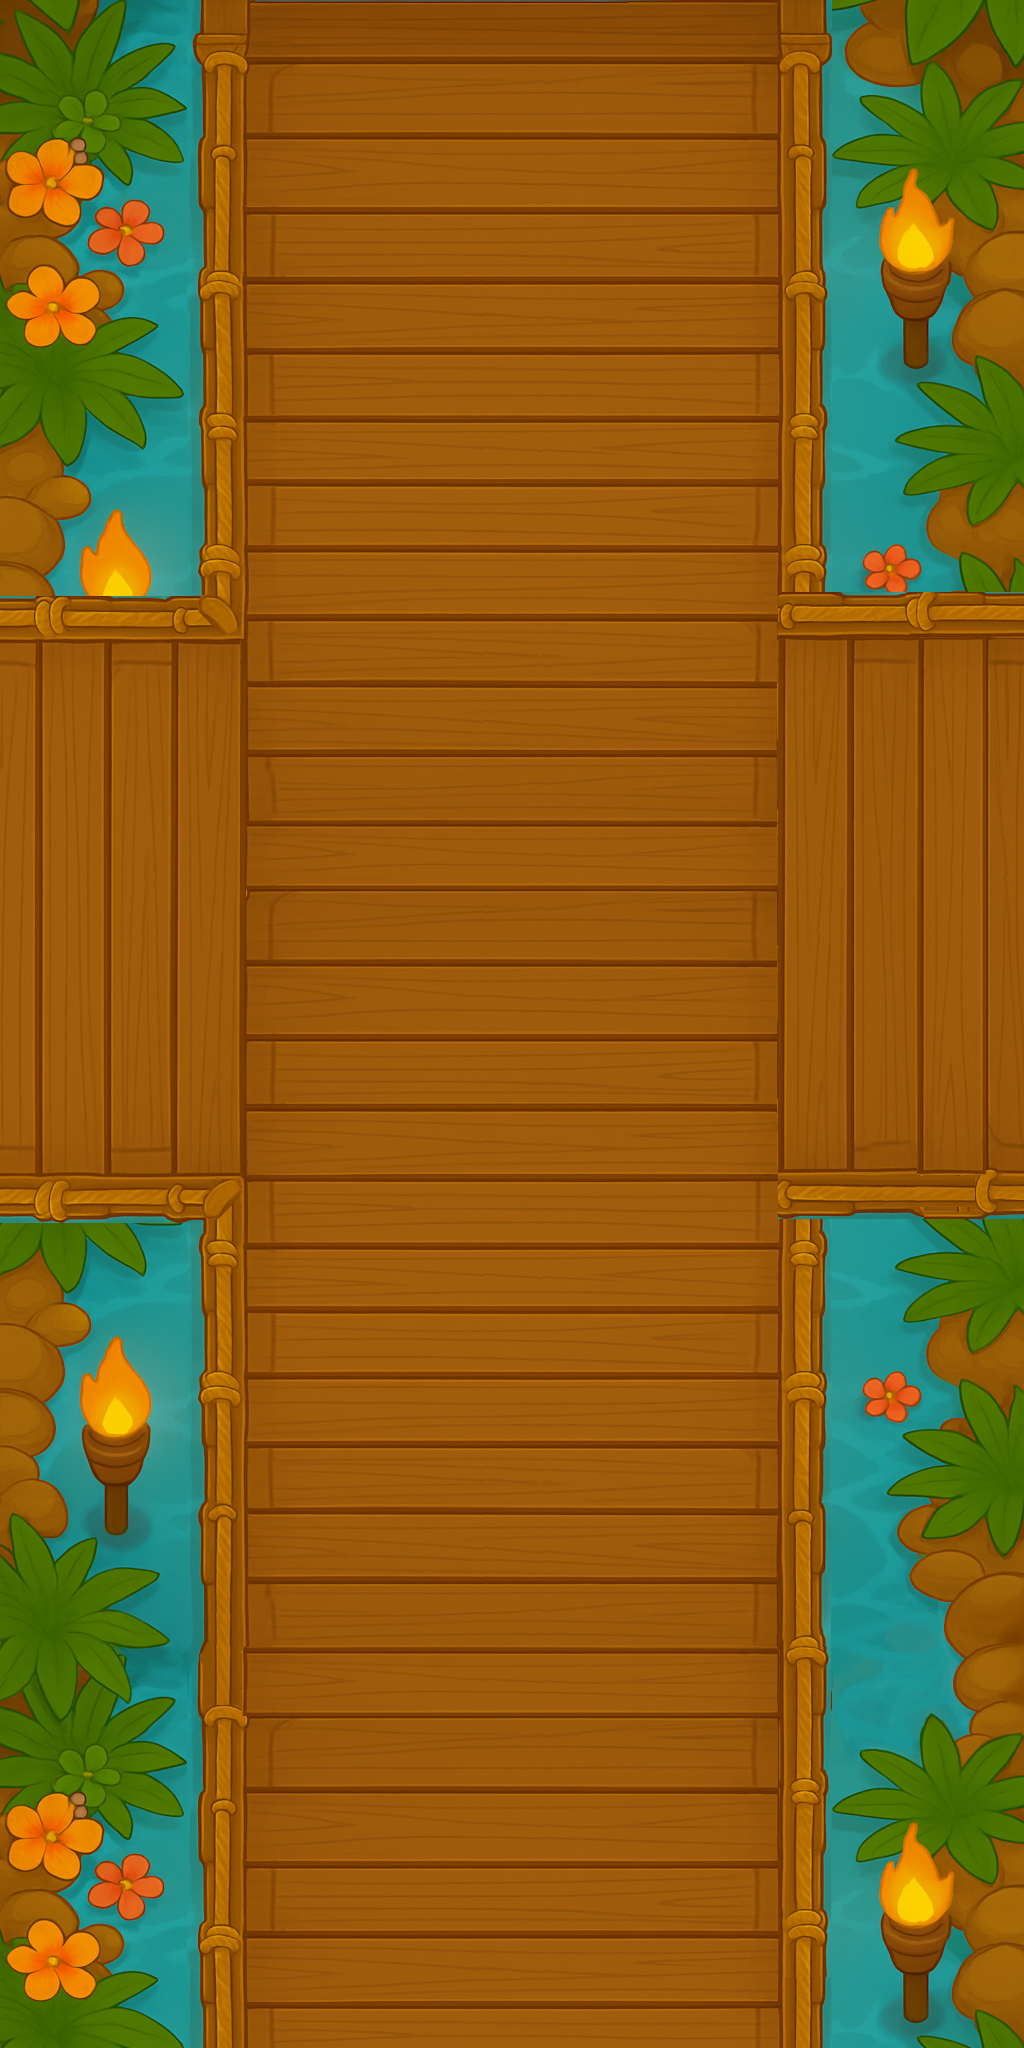
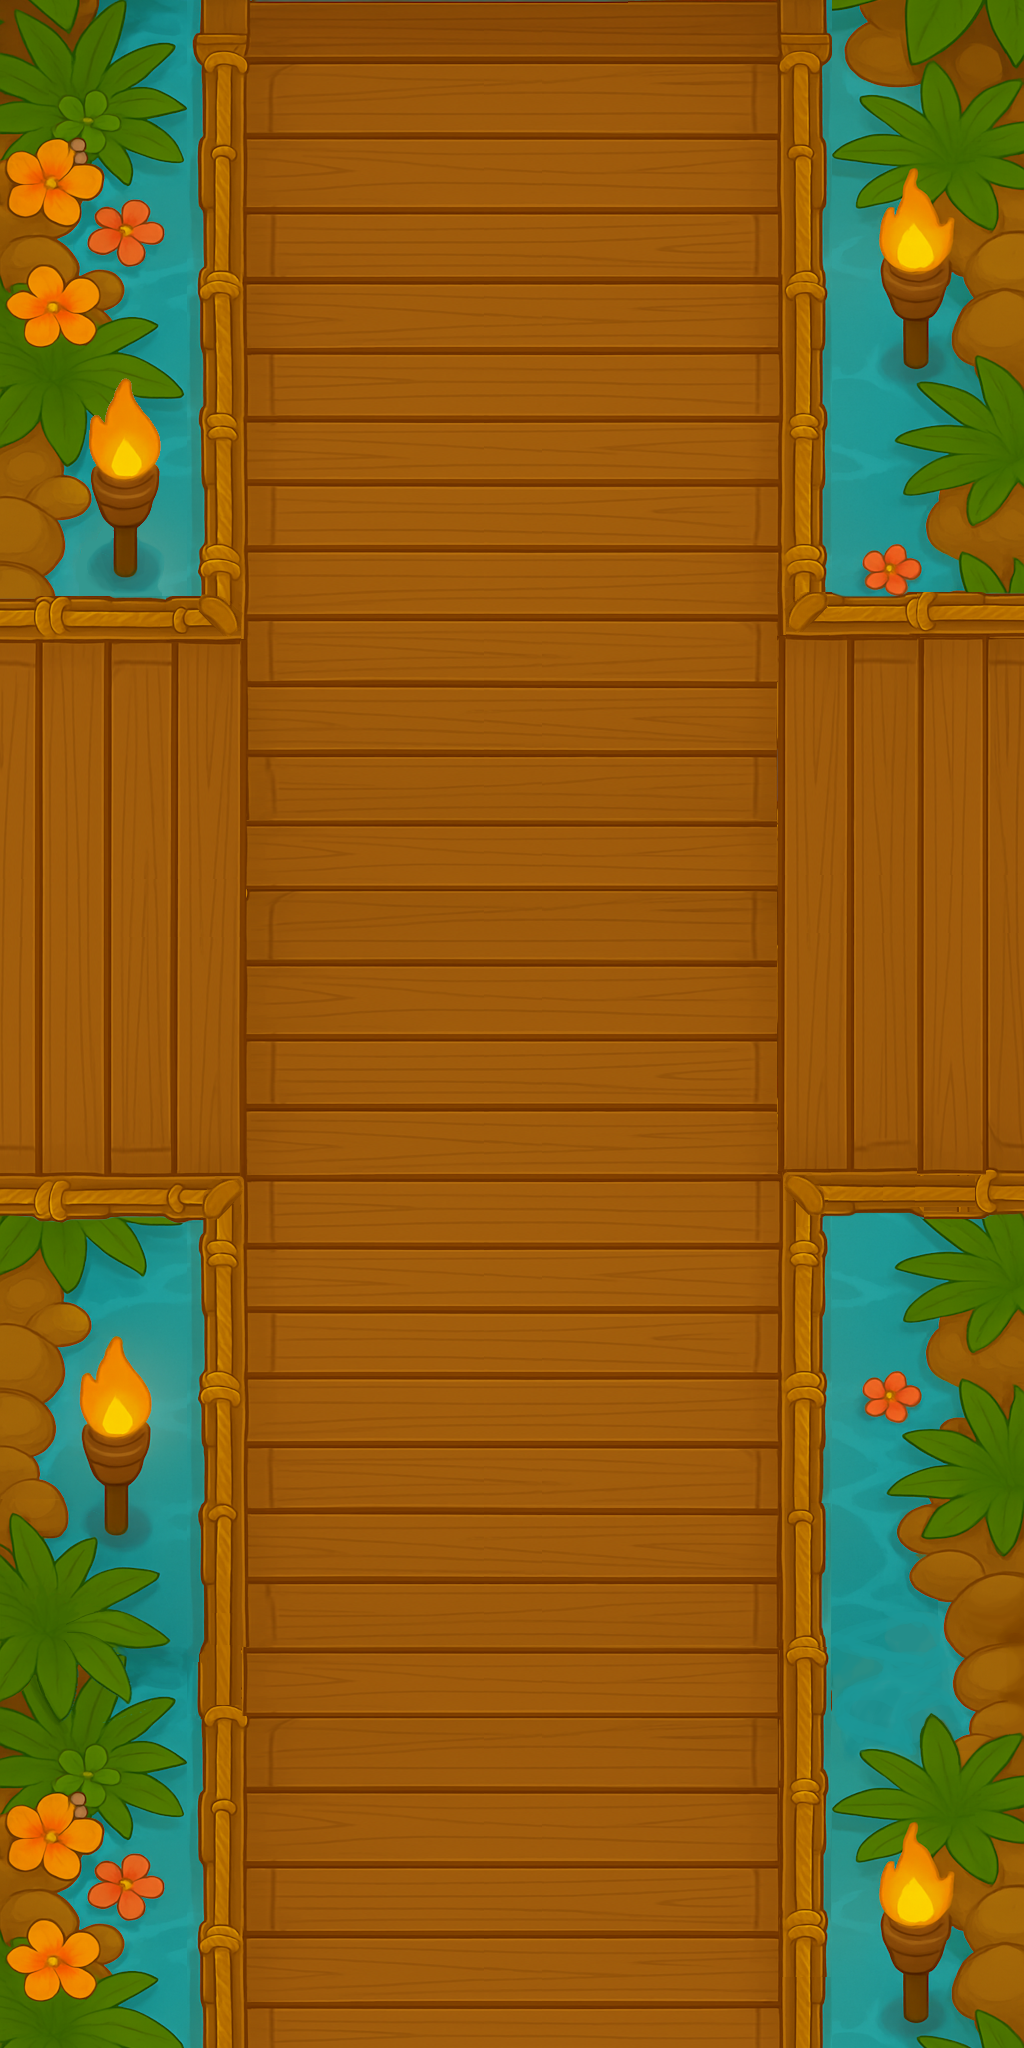
table-temple

diff --git a/src/backgrounds/templeTable.tsx b/src/backgrounds/templeTable.tsx
@@ -1,0 +1,46 @@
+import React, {useEffect} from 'react';
+import {Dimensions, StyleSheet} from 'react-native';
+
+import {Canvas, Image, useImage} from '@shopify/react-native-skia';
+
+import {isNull} from 'lodash';
+
+const dimension = Dimensions.get('screen');
+
+interface TempleTableBackgroundProp {
+  setReady?: () => void;
+}
+
+const TempleTableBackground = ({setReady}: TempleTableBackgroundProp) => {
+  const image = useImage(require('~/assets/images/templePocker.png'));
+
+  useEffect(() => {
+    if (!isNull(image)) {
+      setReady?.();
+    }
+  }, [image, setReady]);
+
+  return (
+    <Canvas style={styles.canvas}>
+      {/* Background */}
+      <Image
+        image={image}
+        width={dimension.width}
+        height={dimension.height - 50}
+        fit={'cover'}
+      />
+    </Canvas>
+  );
+};
+
+const styles = StyleSheet.create({
+  canvas: {
+    width: '100%',
+    height: '100%',
+    position: 'absolute',
+    transform: [{scaleX: 1.05}],
+    backgroundColor: '#FDCF60',
+  },
+});
+
+export default TempleTableBackground;

diff --git a/src/screens/game.tsx b/src/screens/game.tsx
@@ -42,6 +42,7 @@ import UserLostDialog, {
   UserLostDialogRef,
 } from '~/components/dialogs/userLostDialog';
 import {ballThrownEvent} from '~/utils/logic';
+import TempleTableBackground from '~/backgrounds/templeTable';
 
 const {width: screenWidth, height: screenHeight} = Dimensions.get('screen');
 
@@ -425,7 +426,7 @@ function GameScreen({navigation}: any) {
         backgroundColor="transparent"
         barStyle="light-content"
       />
-      <RandomBackground />
+      <TempleTableBackground />
 
       <SafeAreaView style={styles.surface}>
         <View style={styles.body} pointerEvents={'box-none'}>

diff --git a/src/backgrounds/randomBGPicker.tsx b/src/backgrounds/randomBGPicker.tsx
@@ -4,6 +4,7 @@ import BeachBackground from './beach';
 import React, {useMemo} from 'react';
 import CruiseShipDeckBackground from './cruiseShipDeck';
 import BridgeBackground from './bridge';
+import TempleTableBackground from './templeTable';
 
 const backgrounds = [
   BeachBackground,
@@ -11,6 +12,7 @@ const backgrounds = [
   PoolBackground,
   BridgeBackground,
   CruiseShipDeckBackground,
+  TempleTableBackground,
 ];
 const POTENTIAL_BGS = 50;
 const FIVE_MINUTES = 5 * 60 * 1000;
